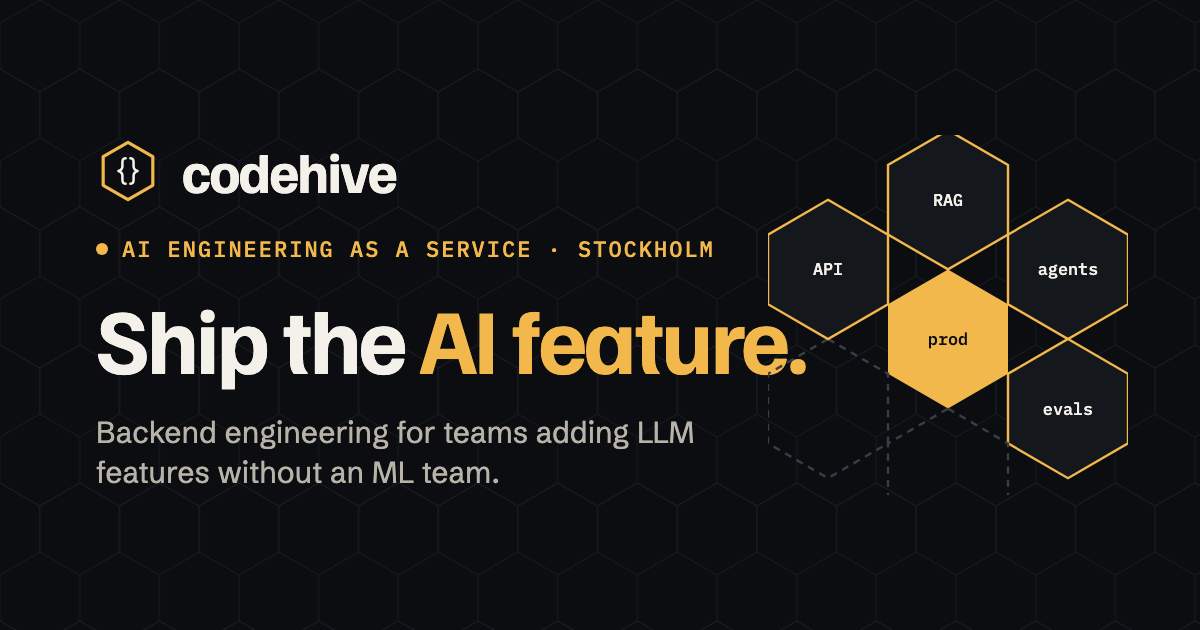
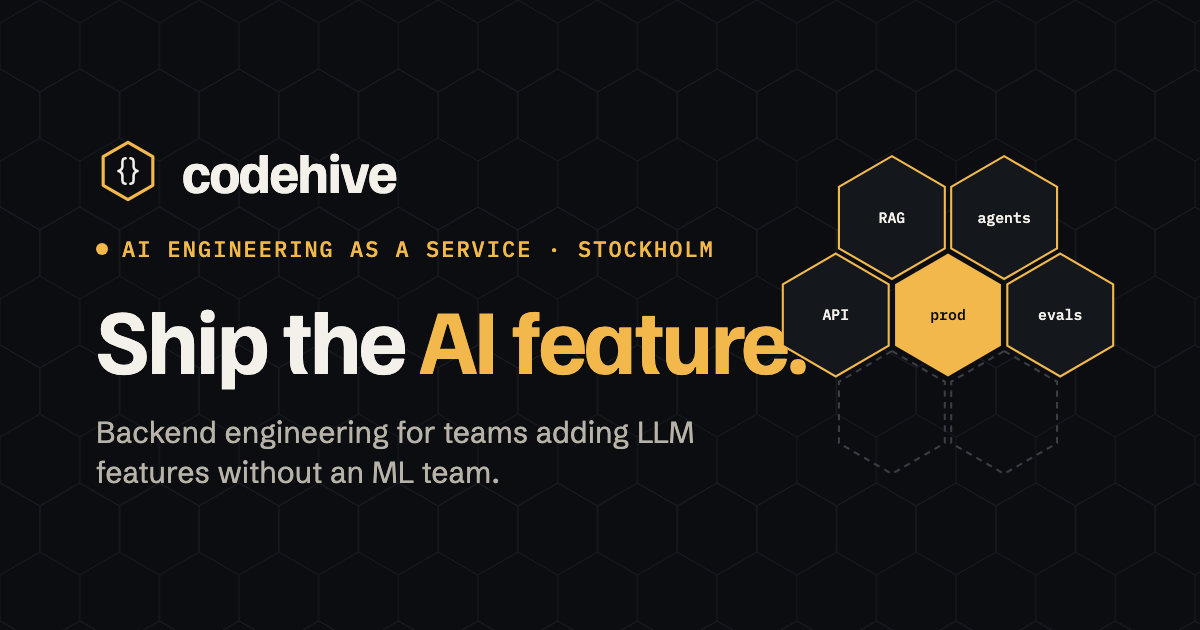
Hero and cell 05 hives on the same tessellated grid; OG image matches
Same pointy-top r=58 grid with a 6px gap as cell 01 and the contact cluster.
Cell 05's second ring is a true hex ring of twelve, listed clockwise so the
ripple order is unchanged, and the whole hive sits 24px higher so the bottom
row clears the desktop crop. Labels and choreography untouched.

Claude-Session: https://claude.ai/code/session_01Jkr9A2qjQz6FomqM1ejFPo

diff --git a/components/cells/Enablement.tsx b/components/cells/Enablement.tsx
@@ -10,11 +10,14 @@ const fears: [string, number, number, number][] = [
   ["new hire, no docs", 126, 630, 5],
   ["board reads about AI in the news", 889, 660, -7],
 ];
+// Pointy-top r=58 hexes tessellated with a 6px gap around the centre (900,376), raised 24px so the bottom ring clears the desktop crop: ring 1 at (±106,0) and
+// (±53,±92), ring 2 at (±212,0), (±159,±92), (±106,±184), (0,±184). left/top = centre − 60. Both rings
+// are listed clockwise from the top so the ripple keyframes (s5r0.., s5r6..) keep their order.
 const ring1: [number, number, string][] = [
-  [840, 224, "eng"], [940, 282, "product"], [940, 398, "ops"], [840, 456, "support"], [740, 398, "sales"], [740, 282, "board"],
+  [787, 224, "eng"], [893, 224, "product"], [946, 316, "ops"], [893, 408, "support"], [787, 408, "sales"], [734, 316, "board"],
 ];
 const ring2: [number, number][] = [
-  [840, 108], [940, 166], [1040, 224], [1040, 340], [1040, 456], [940, 514], [840, 572], [740, 514], [640, 456], [640, 340], [640, 224], [740, 166],
+  [840, 132], [946, 132], [999, 224], [1052, 316], [999, 408], [946, 500], [840, 500], [734, 500], [681, 408], [628, 316], [681, 224], [734, 132],
 ];
 const HEX = "0,-58 50,-29 50,29 0,58 -50,29 -50,-29";
 
@@ -24,7 +27,7 @@ export default function Enablement() {
       {fears.map(([text, left, top, rot]) => (
         <div key={text} className="card anim" style={{ animationName: "fadeout", left, top, transform: `rotate(${rot}deg)` }}>{text}</div>
       ))}
-      <svg className="hx" style={{ left: 840, top: 340 }} width="120" height="120" viewBox="-60 -60 120 120" aria-hidden="true">
+      <svg className="hx" style={{ left: 840, top: 316 }} width="120" height="120" viewBox="-60 -60 120 120" aria-hidden="true">
         <polygon points={HEX} fill="var(--amber)" />
         <text y="-3" fill="var(--bg0)">the one</text>
         <text y="11" fill="var(--bg0)">who knows</text>

diff --git a/components/Hero.tsx b/components/Hero.tsx
@@ -1,8 +1,9 @@
 import s from "./Hero.module.css";
 const HEX = "0,-58 50,-29 50,29 0,58 -50,29 -50,-29";
+// pointy-top r=58 hexes tessellated with a 6px gap: neighbours at (±106, 0) and (±53, ±92) from the centre
 const cells: [number, number, string, "solid" | "line" | "dash", number][] = [
-  [280, 280, "prod", "solid", .9], [280, 164, "RAG", "line", .3], [380, 222, "agents", "line", .45], [380, 338, "evals", "line", .6],
-  [280, 396, "", "dash", .1], [180, 338, "", "dash", .2], [180, 222, "API", "line", .75],
+  [280, 280, "prod", "solid", .9], [227, 188, "RAG", "line", .3], [333, 188, "agents", "line", .45], [386, 280, "evals", "line", .6],
+  [333, 372, "", "dash", .1], [227, 372, "", "dash", .2], [174, 280, "API", "line", .75],
 ];
 export default function Hero() {
   return (

diff --git a/components/cells/index.ts b/components/cells/index.ts
@@ -24,5 +24,5 @@ export const visuals: Record<string, CellVisual> = {
   "02": { Component: AppDev, mobile: { x: 740, y: 180, w: 440, h: 450 } },
   "03": { Component: Models, mobile: { x: 720, y: 216, w: 520, h: 400 } },
   "04": { Component: MLOps, mobile: { x: 660, y: 280, w: 510, h: 300 } },
-  "05": { Component: Enablement, mobile: { x: 640, y: 130, w: 480, h: 460 } },
+  "05": { Component: Enablement, mobile: { x: 660, y: 166, w: 480, h: 420 } },
 };
